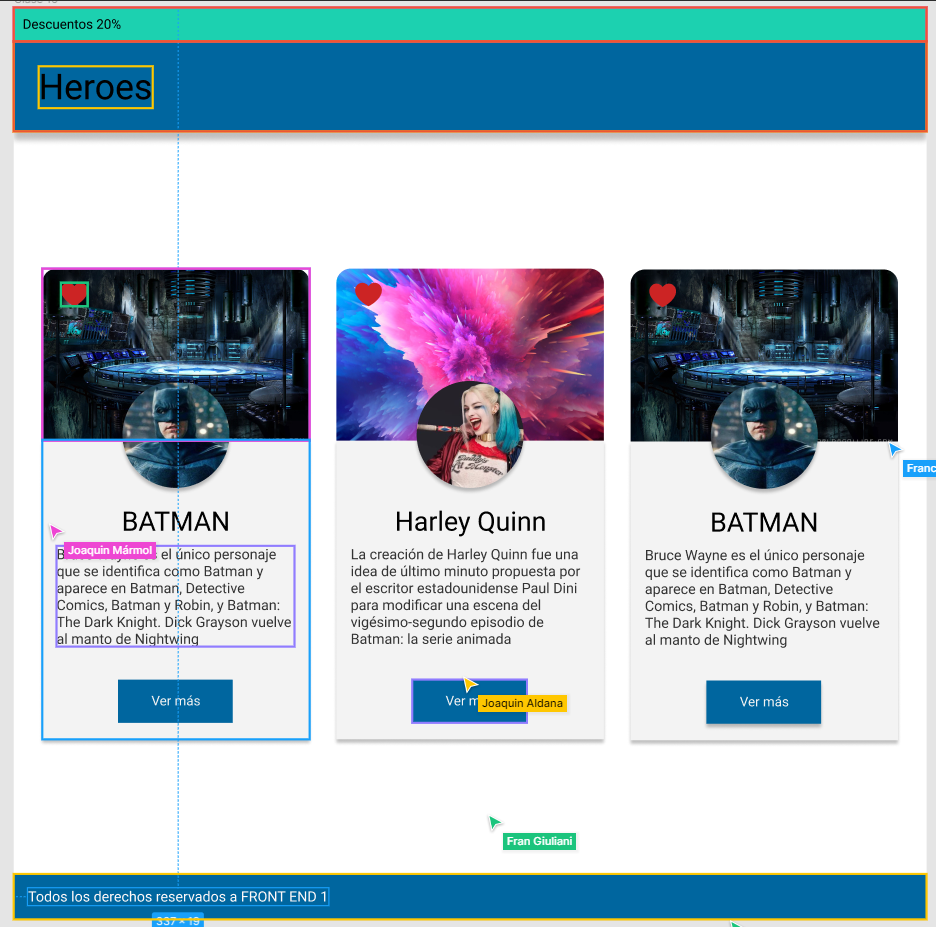
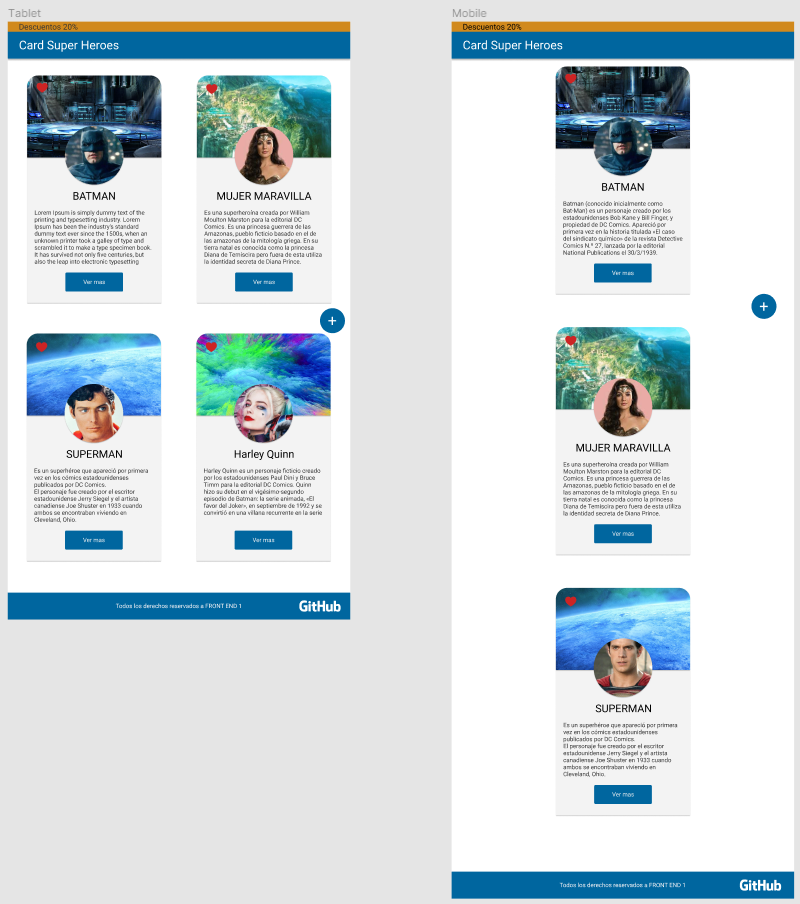
Actividad clase 14

diff --git a/index.html b/index.html
@@ -5,35 +5,52 @@
      <meta http-equiv="X-UA-Compatible" content="IE=edge">
      <meta name="viewport" content="width=device-width, initial-scale=1.0">
      <link rel="stylesheet" href="styles/style.css">
-     <title>Clase10</title>
+     <title>Clase14</title>
 </head>
 <body>
      <header class="sombreado">
           <div id="barraDescuento">Descuentos 20%</div>
-          <h1 id="barraTitulo">Heroes</h1>
+          <h1 id="barraTitulo">Cards Super Heroes</h1>
      </header>
      <section>
           <article class="sombreado">
-               <img class="cover" src="img/cover1.png" alt="Fondo Batman"><img class="perfil" src="img/batman.png" alt="Batman Primer Plano"><img class="corazoncito" src="img/quore.png" alt="Corazoncito">
+               <img class="cover" src="img/cover1Batman.png" alt="Fondo Batman">
+               <img class="perfil" src="img/batman.png" alt="Batman Primer Plano">
+               <img class="corazoncito" src="img/quore.png" alt="Corazoncito">
                <h2>BATMAN</h2>
-               <p>Bruce Wayne es el único personaje que se identifica como Batman y aparece en Batman, Detective Comics, Batman y Robin, y Batman: The Dark Knight. Dick Grayson vuelve al manto de Nightwing</p>
+               <p>Lorem Ipsum is simply dummy text of the printing and typesetting industry. Lorem Ipsum has been the industry's standard dummy text ever since the 1500s, when an unknown printer took a galley of type and scrambled it to make a type specimen book. It has survived not only five centuries, but also the leap into electronic typesetting</p>
                <button>Ver más</button>
           </article>
           <article class="sombreado">
-               <img class="cover" src="img/cover2.png" alt="Fondo Harley"><img class="perfil" src="img/harley.png" alt="Harley Primer plano"><img class="corazoncito" src="img/quore.png" alt="Corazoncito">
+               <img class="cover" src="img/cover3MM.png" alt="Fondo Mujer Maravilla">
+               <img class="perfil" src="img/mujerMaravilla.png" alt="Mujer Maravilla Primer Plano">
+               <img class="corazoncito" src="img/quore.png" alt="Corazoncito">
+               <h2>MUJER MARAVILLA</h2>
+               <p>Es una superheroína creada por William Moulton Marston para la editorial DC Comics. Es una princesa guerrera de las Amazonas, pueblo ficticio basado en el de las amazonas de la mitología griega. En su tierra natal es conocida como la princesa Diana de Temiscira pero fuera de esta utiliza la identidad secreta de Diana Prince.</p>
+               <button>Ver más</button>
+          </article>
+          <article class="sombreado">
+               <img class="cover" src="img/cover4SM.png" alt="Fondo Superman">
+               <img class="perfil" src="img/superman.png" alt="Superman Primer Plano">
+               <img class="corazoncito" src="img/quore.png" alt="Corazoncito">
+               <h2>SUPERMAN</h2>
+               <p>Es un superhéroe que apareció por primera vez en los cómics estadounidenses publicados por DC Comics. <br>
+               El personaje fue creado por el escritor estadounidense Jerry Siegel y el artista canadiense Joe Shuster en 1933 cuando ambos se encontraban viviendo en Cleveland, Ohio.</p>
+               <button>Ver más</button>
+          </article>
+          <article class="sombreado">
+               <img class="cover" src="img/cover2Harley.png" alt="Fondo Harley">
+               <img class="perfil" src="img/harley.png" alt="Harley Primer plano">
+               <img class="corazoncito" src="img/quore.png" alt="Corazoncito">
                <h2>Harley Quinn</h2>
-               <p>La creación de Harley Quinn fue una idea de último minuto propuesta por el escritor estadounidense Paul Dini para modificar una escena del vigésimo-segundo episodio de Batman: la serie animada</p>
-               <button>Ver más</button>
-          </article>
-          <article class="sombreado">
-               <img class="cover" src="img/cover1.png" alt="Fondo Batman"><img class="perfil" src="img/batman.png" alt="Batman Primer Plano"><img class="corazoncito" src="img/quore.png" alt="Corazoncito">
-               <h2>BATMAN</h2>
-               <p>Bruce Wayne es el único personaje que se identifica como Batman y aparece en Batman, Detective Comics, Batman y Robin, y Batman: The Dark Knight. Dick Grayson vuelve al manto de Nightwing</p>
+               <p>Harley Quinn es un personaje ficticio creado por los estadounidenses Paul Dini y Bruce Timm para la editorial DC Comics. Quinn hizo su debut en el vigésimo-segundo episodio de Batman: la serie animada, «El favor del Joker», en septiembre de 1992 y se convirtió en una villana recurrente en la serie</p>
                <button>Ver más</button>
           </article>
      </section>
+     <a href=""><div id="circulo">+</div></a>
      <footer>
           <p>Todos los derechos reservados a FRONT END 1</p>
+          <a id="logoGit" href="http://www.github.com" target="_blanc"><img src="/img/logoGithub.png" alt="Logo GitHub"></a>
      </footer>
 </body>
 </html>

diff --git a/styles/style.css b/styles/style.css
@@ -8,9 +8,9 @@ body{
 }
 #barraDescuento{
      align-items: center;
-     background-color: #1CD1B0;
+     background-color: #D1891C;
      display: flex;
-     font-size: 12px;;
+     font-size: 13px;;
      font-weight: bold;
      height: 25px;
      justify-content: flex-start;
@@ -22,16 +22,20 @@ body{
      display: flex;
      height: 70px;
      justify-content: flex-start;
-     margin-bottom: 70px;
+     margin-bottom: 50px;
      margin-top: 0;
      padding-left: 12px;
+     color: white;
 }
 .sombreado {
 	box-shadow: 0 5px 8px 0 gray;
 }
-section{
+section{ 
+     position: relative;
      display: flex;
+     flex-wrap: wrap;
      justify-content: space-around;
+     margin-bottom: 20vh;
 }
 article{
      align-items: center;
@@ -39,25 +43,28 @@ article{
      box-sizing: border-box;
      display: flex;
      flex-direction: column;
-     height: 420px;
+     height: auto;
      justify-content: flex-start;
-     margin-bottom: 155px;
+     margin: 20px 20px 50px 20px;
      position: relative;
-     width: 220px;
+     border-radius: 15px 15px 0 0;
+     width: 300px;
 }
 section article img{
      box-sizing: border-box;
      display: flex;
-     
+     border-radius: 15px 15px 0 0;
 }
 .cover{
-     width: 220px;
+     width: 100%;
+     height: auto;
 }
 .perfil{
      border-radius: 50%;
      position: absolute;
-     top: 95px;
-     width: 90px;
+     top: 110px;
+     width: 135px;
+     height: auto;
 }
 .corazoncito{
      position: absolute;
@@ -66,10 +73,10 @@ section article img{
      width: 25px;
 }
 section article h2 {
-     margin: 60px 0 0 0;
+     margin: 80px 0 0 0;
 }
 section article p {
-     font-size: 12px;
+     font-size: 14px;
      font-weight: bolder;
      padding: 0 15px;;
 }
@@ -77,8 +84,24 @@ section article button{
      background-color: #00669F;
      color: white;
      font-size: 10px;
-     margin-top: 20px;
+     margin: 20px 0;
      padding: 10px 30px;
+     border-radius: 3px;
+}
+#circulo{
+     background-color: #00669F;
+     position: fixed;
+     bottom: 80px;
+     right: 5px;
+     height: 80px;
+     width: 80px;
+     border-radius: 50%;
+     color: white;
+     display: flex;
+     justify-content: center;
+     align-items: center;
+     font-size: 55px;
+     font-weight: bold;
 }
 footer{
      align-items: center;
@@ -86,7 +109,15 @@ footer{
      color: white;
      display: flex;
      font-size: 12px;
-     justify-content: flex-start;
+     justify-content: center;
      margin-top: auto;
-     padding-left: 10px;
+     height: 60px;
+}
+#logoGit{
+     display: flex;
+     position: absolute;
+     right: 20px;
+}
+#logoGit img{
+     height: 25px;
 }
